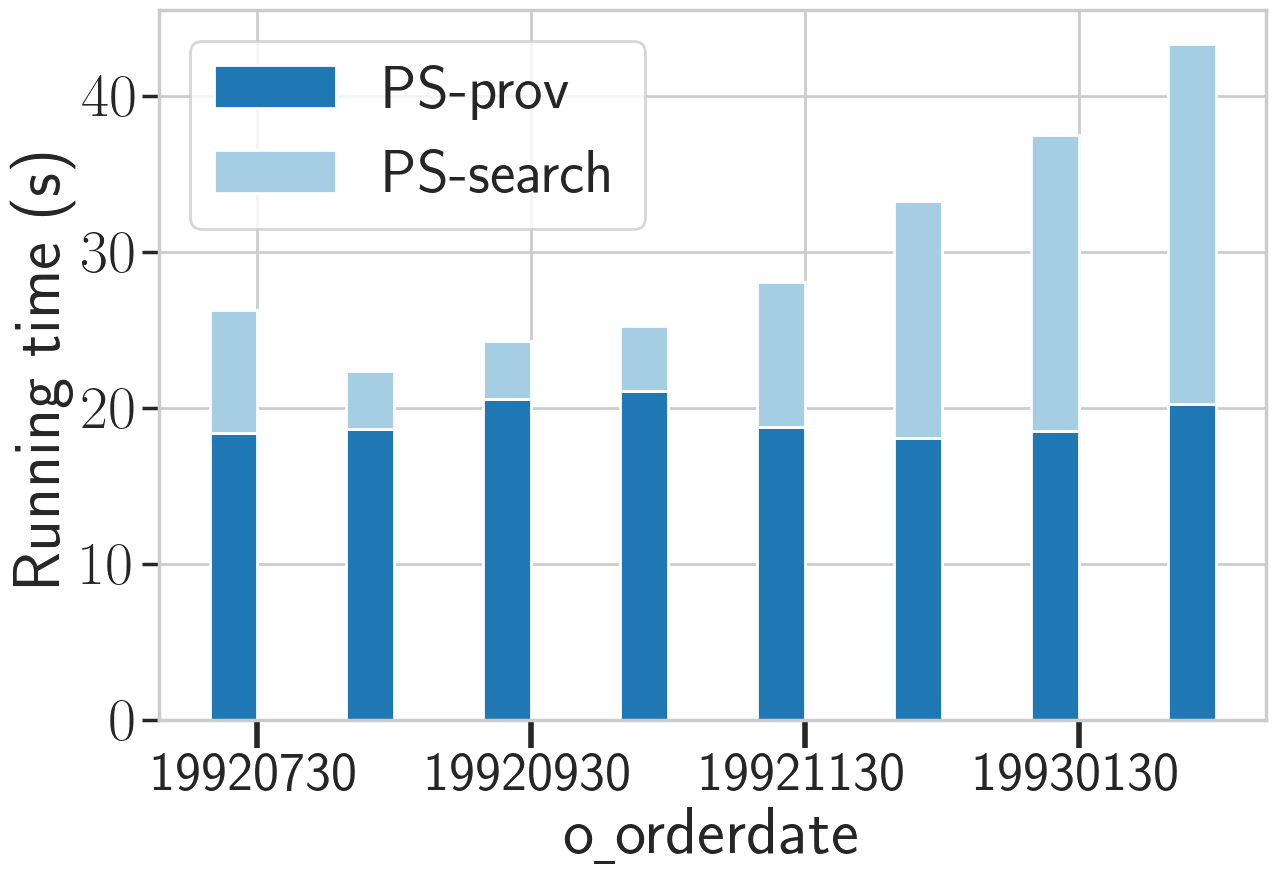
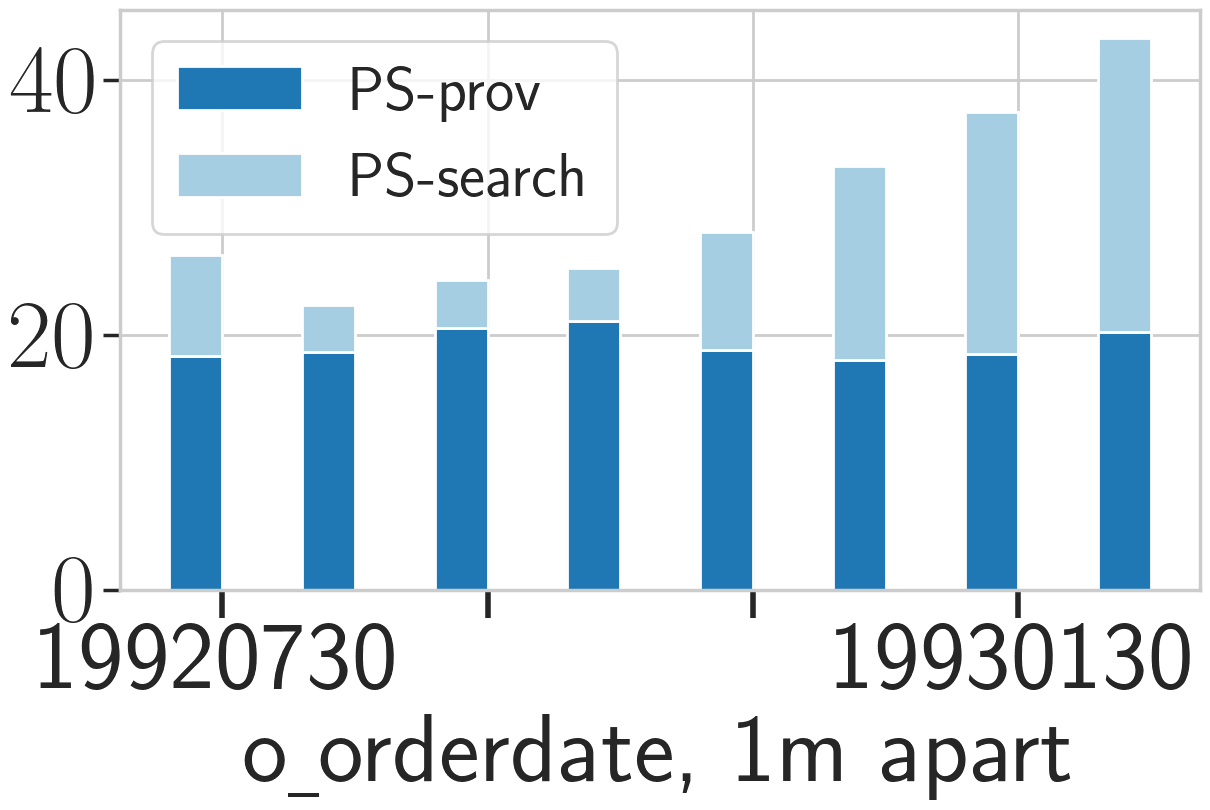
1G q10 refine3

diff --git a/Experiment/TPCH/1G/query_selectivity/q10_refine3/fig.py b/Experiment/TPCH/1G/query_selectivity/q10_refine3/fig.py
@@ -7,8 +7,6 @@ import matplotlib.ticker as ticker
 import datetime
 from matplotlib.dates import AutoDateLocator, AutoDateFormatter, date2num
 
-plt.rc('text', usetex=True)
-plt.rc('font', family='serif')
 
 sns.set_palette("Paired")
 # sns.set_palette("deep")
@@ -21,6 +19,9 @@ plt.rcParams['ytick.left'] = True
 
 color = ['C1', 'C0', 'C3', 'C2']
 label = ['PS-prov', "PS-search", "BL-prov", "BL-search"]
+
+plt.rc('text', usetex=True)
+plt.rc('font', size=70, weight='bold')
 
 f_size = (14, 10)
 
@@ -59,12 +60,12 @@ def run(query, size, constraint):
             execution_timebl1.append(0)
             execution_timebl2.append(0)
     # x_list = [19941230, 19950115, 19950130, 19950215, 19950230, 19950315, 19950330, 19950415]
-    x_list = [19920730, 19920930, 19921130, 19930130]
+    x_list = [19920730, '', '', 19930130]
 
     print(x_list, execution_timeps1, execution_timeps2)
 
     index = np.arange(len(execution_timeps1))
-    bar_width = 0.35
+    bar_width = 0.4
 
     fig, ax = plt.subplots(1, 1, figsize=f_size)
 
@@ -81,13 +82,13 @@ def run(query, size, constraint):
     # plt.bar(index + bar_width, execution_timebl2, bar_width, bottom=execution_timebl1,
     #         color=color[3], label=label[3])
 
+    plt.xticks(np.arange(0, 8, 2) + bar_width/2, x_list, rotation=0, fontsize=70)
+    plt.yticks(fontsize=70, weight='bold')
 
-    plt.xticks(np.arange(0, 8, 2) + bar_width/2, x_list, rotation=0, fontsize=40)
-
-    plt.xlabel(r'o\underline{ }orderdate')
-    plt.ylabel('Running time (s)')
+    plt.xlabel(r'o\underline{ }orderdate, 1m apart')
+    # plt.ylabel('Running time (s)')
     # plt.legend(loc='upper right', bbox_to_anchor=(1.03, 1.05))
-    plt.legend(loc='best')
+    plt.legend(loc='best', fontsize=45)
     plt.tight_layout()
     fig_path = "query_selectivity_q" + str(query) + "_" + size + "_" + constraint + ".png"
 
